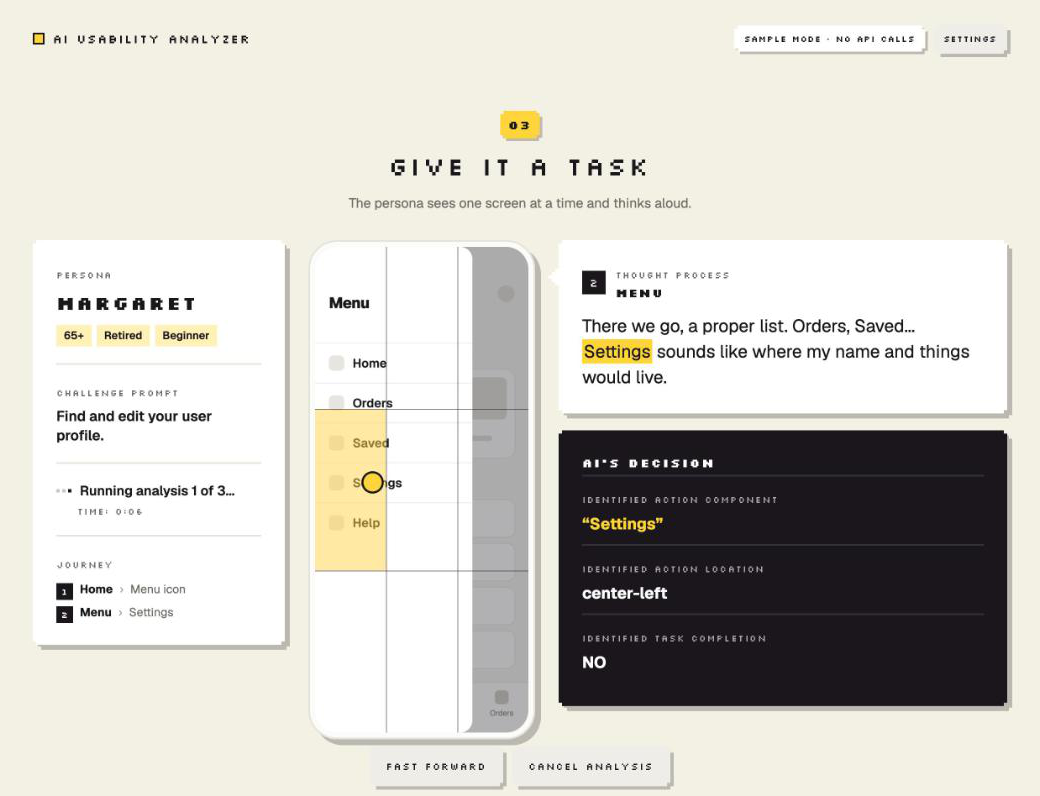
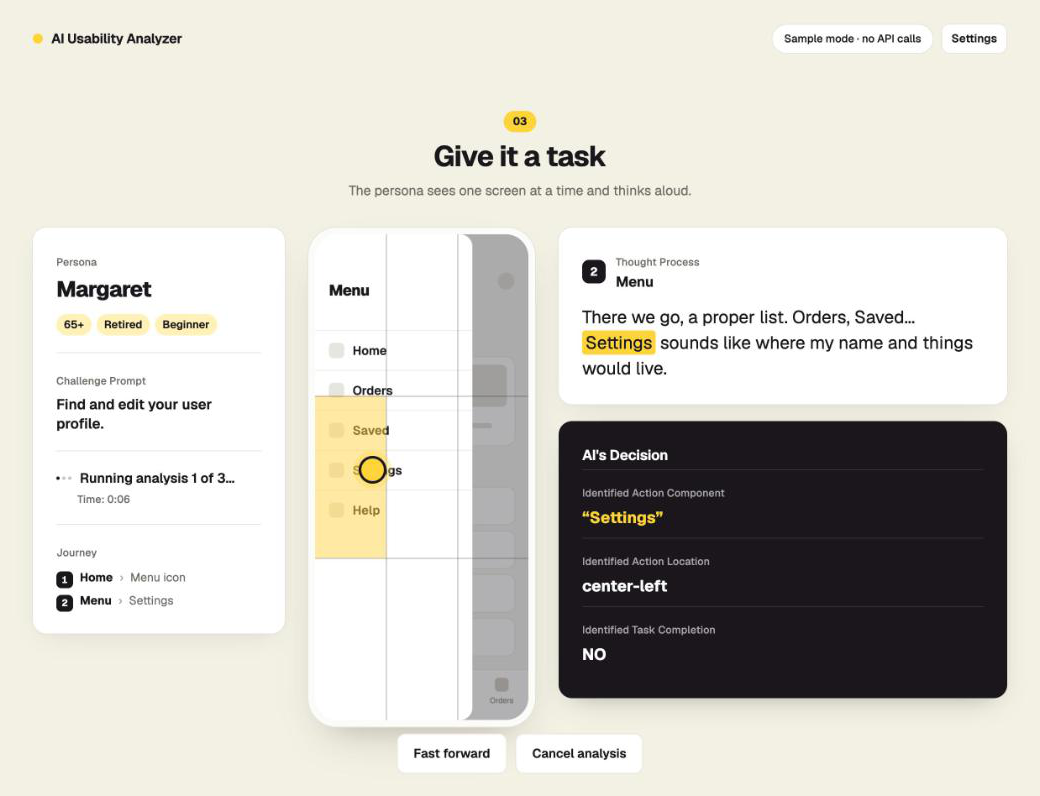
Restyle the interface: one typeface, rounded cards and soft shadows in place of the pixel look

diff --git a/src/index.css b/src/index.css
@@ -1,5 +1,6 @@
-/* Ink and one marker yellow on warm paper. Yellow means "chosen" or "the
-   answer"; a button is ink. Labels are a pixel face, sentences are Geist. */
+/* Ink and one yellow on warm paper, set in one typeface. Yellow means
+   "chosen" or "the answer"; a button is ink. Surfaces are white cards with a
+   hairline edge and a soft shadow. */
 :root {
   --ink: #19171c;
   --muted: #6f6c66;
@@ -13,9 +14,9 @@
   --ground: #f4f0e4;
   --danger: #b3261e;
   --shadow: rgba(25, 23, 28, 0.26);
-  --px: 4px;
+  --radius: 16px;
+  --radius-s: 10px;
   --font: 'Geist Variable', system-ui, -apple-system, 'Segoe UI', sans-serif;
-  --pixel: 'Silkscreen', ui-monospace, monospace;
   --ease: cubic-bezier(0.16, 1, 0.3, 1);
 }
 
@@ -40,38 +41,33 @@ h1, h2, h3, p { margin: 0; }
 
 .page { max-width: 1240px; margin: 0 auto; padding: 0 clamp(16px, 3vw, 40px) 96px; }
 
-/* The pixel plate: a square with one pixel notched from each corner, over a
-   hard offset shadow of the same shape. The face and the shadow are
-   pseudo-elements so the content itself is never clipped. */
-.plate { position: relative; isolation: isolate; --face: var(--plate); --cast: 6px; }
-.plate::before, .plate::after {
-  content: ''; position: absolute; inset: 0; z-index: -1;
-  clip-path: polygon(var(--px) 0, calc(100% - var(--px)) 0, calc(100% - var(--px)) var(--px), 100% var(--px), 100% calc(100% - var(--px)), calc(100% - var(--px)) calc(100% - var(--px)), calc(100% - var(--px)) 100%, var(--px) 100%, var(--px) calc(100% - var(--px)), 0 calc(100% - var(--px)), 0 var(--px), var(--px) var(--px));
+/* The card: every surface in the tool. `--face` is its colour. */
+.plate {
+  --face: var(--plate);
+  background: var(--face);
+  border-radius: var(--radius);
+  box-shadow: 0 0 0 1px var(--rule), 0 1px 2px rgba(25, 23, 28, 0.04), 0 12px 32px -16px rgba(25, 23, 28, 0.16);
 }
-.plate::before { background: var(--face); }
-.plate::after { background: var(--shadow); translate: var(--cast) var(--cast); z-index: -2; }
-.plate.ink { --face: var(--ink); color: #fff; }
+.plate.ink { --face: var(--ink); color: #fff; box-shadow: 0 12px 32px -16px rgba(25, 23, 28, 0.4); }
 .plate.mark { --face: var(--mark); }
-.plate.flat { --cast: 0px; }
-.plate.flat::after { display: none; }
+.plate.flat { box-shadow: none; }
 .pad { padding: 28px; }
 
-.label { font-family: var(--pixel); font-size: 11px; letter-spacing: 0.12em; text-transform: uppercase; color: var(--muted); -webkit-font-smoothing: none; }
+.label { font-size: 11px; color: var(--muted); }
 .on-ink .label { color: var(--on-ink); }
-.pixel { font-family: var(--pixel); text-transform: uppercase; letter-spacing: 0.06em; -webkit-font-smoothing: none; }
 .muted { color: var(--muted); }
 .rule { height: 2px; background: var(--rule); border: 0; margin: 20px 0; }
 
 /* Buttons */
 .btn {
-  --face: var(--ink); --cast: 4px;
-  border: 0; background: none; color: #fff; padding: 14px 20px; min-height: 48px;
-  font-family: var(--pixel); font-size: 12px; letter-spacing: 0.12em; text-transform: uppercase; -webkit-font-smoothing: none;
+  --face: var(--ink);
+  border: 0; background: var(--face); color: #fff; border-radius: var(--radius-s); box-shadow: none; padding: 14px 20px; min-height: 48px;
+  font-size: 12px;
   display: inline-flex; align-items: center; justify-content: center; gap: 10px;
-  transition: translate 120ms var(--ease);
 }
-.btn:not(:disabled):hover { translate: -1px -1px; }
-.btn:not(:disabled):active { translate: 3px 3px; --cast: 1px; }
+.btn { transition: opacity 120ms, scale 120ms var(--ease); }
+.btn:not(:disabled):hover { opacity: 0.86; }
+.btn:not(:disabled):active { scale: 0.98; }
 .btn:disabled { --face: #bdbab2; }
 .btn.ghost { --face: var(--chip); color: var(--ink); }
 .btn.ghost:disabled { color: var(--faint); --face: var(--chip); }
@@ -81,15 +77,14 @@ h1, h2, h3, p { margin: 0; }
 
 /* Choices: chips that turn yellow when picked */
 .choice {
-  --face: var(--chip); --cast: 0px;
-  border: 0; background: none; padding: 7px 12px; min-height: 34px; font-size: 14px; font-weight: 500; color: var(--ink);
+  --face: var(--chip);
+  border: 0; background: var(--face); box-shadow: none; padding: 7px 12px; min-height: 34px; font-size: 14px; font-weight: 500; color: var(--ink);
 }
-.choice::after { display: none; }
 .choice[aria-pressed='true'], .choice[aria-checked='true'] { --face: var(--mark); font-weight: 600; }
 .choice:disabled { color: var(--faint); }
 .choices { display: flex; flex-wrap: wrap; gap: 6px; }
 .tag { display: inline-block; background: var(--wash); padding: 3px 9px; font-size: 13px; font-weight: 600; }
-.tag.gap { background: var(--mark); font-family: var(--pixel); font-size: 9px; letter-spacing: 0.1em; text-transform: uppercase; padding: 3px 6px; }
+.tag.gap { background: var(--mark); font-size: 9px; padding: 3px 6px; }
 
 /* Fields */
 .field {
@@ -100,10 +95,10 @@ textarea.field { resize: vertical; min-height: 76px; line-height: 1.4; }
 
 /* Top bar */
 .topbar { display: flex; align-items: center; justify-content: space-between; gap: 16px; padding: 28px 0; flex-wrap: wrap; }
-.wordmark { display: flex; align-items: center; gap: 10px; font-family: var(--pixel); font-size: 14px; letter-spacing: 0.14em; text-transform: uppercase; -webkit-font-smoothing: none; }
+.wordmark { display: flex; align-items: center; gap: 10px; font-size: 14px; }
 .wordmark::before { content: ''; width: 14px; height: 14px; background: var(--mark); box-shadow: inset 0 0 0 2px var(--ink); }
 .topbar-right { display: flex; align-items: center; gap: 10px; flex-wrap: wrap; }
-.engine { --cast: 3px; display: inline-flex; align-items: center; gap: 8px; padding: 8px 12px; font-family: var(--pixel); font-size: 10px; letter-spacing: 0.12em; text-transform: uppercase; color: var(--faint); -webkit-font-smoothing: none; }
+.engine { display: inline-flex; align-items: center; gap: 8px; padding: 8px 12px; font-size: 10px; color: var(--faint); }
 .engine[data-on='true'] { color: var(--ink); }
 .engine[data-on='false'] { --face: #f8f6ef; }
 .engine svg { width: 16px; height: 16px; flex: none; }
@@ -117,14 +112,14 @@ textarea.field { resize: vertical; min-height: 76px; line-height: 1.4; }
 
 /* Hero */
 .hero { padding: 40px 0 56px; text-align: center; }
-.hero h1 { font-family: var(--pixel); font-weight: 400; font-size: clamp(28px, 6vw, 64px); letter-spacing: 0.08em; text-transform: uppercase; line-height: 1.1; -webkit-font-smoothing: none; }
+.hero h1 { font-weight: 400; font-size: clamp(28px, 6vw, 64px); line-height: 1.1; }
 .hero p { margin-top: 14px; font-size: clamp(16px, 2vw, 20px); color: var(--muted); }
 
 /* Chapters */
 .chapter { padding: 40px 0; }
 .chapter-head { display: grid; justify-items: center; text-align: center; gap: 10px; margin-bottom: 32px; }
-.chapter-no { --face: var(--mark); --cast: 3px; padding: 6px 10px; font-family: var(--pixel); font-weight: 700; font-size: 14px; letter-spacing: 0.1em; -webkit-font-smoothing: none; }
-.chapter-head h2 { font-family: var(--pixel); font-weight: 400; font-size: clamp(20px, 3vw, 30px); letter-spacing: 0.12em; text-transform: uppercase; -webkit-font-smoothing: none; }
+.chapter-no { --face: var(--mark); padding: 6px 10px; font-weight: 700; font-size: 14px; }
+.chapter-head h2 { font-weight: 400; font-size: clamp(20px, 3vw, 30px); }
 .chapter-head p { color: var(--muted); max-width: 52ch; }
 
 .notice { display: flex; gap: 12px; align-items: flex-start; padding: 14px 16px; background: var(--wash); font-size: 15px; }
@@ -143,19 +138,17 @@ textarea.field { resize: vertical; min-height: 76px; line-height: 1.4; }
 .frame-wire { align-self: center; flex: none; color: var(--ink); margin: 0 -14px; }
 .flows { max-width: 760px; margin: 28px auto 0; }
 .flows .choices { margin-top: 12px; }
-.flows .choice { padding: 12px 18px; min-height: 46px; font-family: var(--pixel); font-size: 11px; letter-spacing: 0.12em; text-transform: uppercase; -webkit-font-smoothing: none; }
+.flows .choice { padding: 12px 18px; min-height: 46px; font-size: 11px; }
 
 /* 02 Cast */
 .cast { display: grid; grid-template-columns: minmax(0, 1.25fr) minmax(0, 1fr); gap: 24px; align-items: stretch; }
 .tabs { display: flex; gap: 6px; margin-bottom: 22px; flex-wrap: wrap; }
-.tab { --face: var(--chip); --cast: 0px; border: 0; background: none; padding: 9px 12px; font-family: var(--pixel); font-size: 10px; letter-spacing: 0.12em; text-transform: uppercase; color: var(--muted); -webkit-font-smoothing: none; }
-.tab::after { display: none; }
+.tab { --face: var(--chip); border: 0; background: var(--face); box-shadow: none; padding: 9px 12px; font-size: 10px; color: var(--muted); }
 .tab[aria-selected='true'] { --face: var(--ink); color: #fff; }
 .presets { display: grid; grid-template-columns: repeat(3, minmax(0, 1fr)); gap: 10px; }
-.preset { --face: var(--chip); --cast: 0px; border: 0; background: none; text-align: left; padding: 16px; display: grid; gap: 4px; }
-.preset::after { display: none; }
+.preset { --face: var(--chip); border: 0; background: var(--face); box-shadow: none; text-align: left; padding: 16px; display: grid; gap: 4px; }
 .preset[aria-checked='true'] { --face: var(--mark); }
-.preset b { font-family: var(--pixel); font-size: 14px; letter-spacing: 0.1em; text-transform: uppercase; -webkit-font-smoothing: none; }
+.preset b { font-size: 14px; }
 .preset span { font-size: 13px; color: var(--muted); }
 .preset[aria-checked='true'] span { color: var(--ink); }
 .param { display: grid; grid-template-columns: 150px minmax(0, 1fr); gap: 12px; align-items: center; padding: 10px 0; border-top: 2px solid var(--rule); }
@@ -171,12 +164,11 @@ textarea.field { resize: vertical; min-height: 76px; line-height: 1.4; }
 .task { max-width: 760px; margin: 0 auto; display: grid; gap: 22px; }
 .runs-row { display: flex; align-items: center; justify-content: space-between; gap: 16px; flex-wrap: wrap; }
 .stepper { display: inline-flex; align-items: center; gap: 6px; }
-.stepper output { --face: var(--mark); --cast: 0px; min-width: 44px; text-align: center; padding: 8px 10px; font-family: var(--pixel); font-weight: 700; -webkit-font-smoothing: none; }
-.stepper output::after { display: none; }
+.stepper output { --face: var(--mark); min-width: 44px; text-align: center; padding: 8px 10px; font-weight: 700; }
 
 /* The run */
 .run { display: grid; grid-template-columns: minmax(0, 300px) auto minmax(0, 1fr); gap: 28px; align-items: start; }
-.sheet h3 { font-family: var(--pixel); font-weight: 700; font-size: 22px; letter-spacing: 0.1em; text-transform: uppercase; margin: 6px 0 10px; -webkit-font-smoothing: none; overflow-wrap: anywhere; }
+.sheet h3 { font-weight: 700; font-size: 22px; margin: 6px 0 10px; overflow-wrap: anywhere; }
 .sheet .tags { display: flex; flex-wrap: wrap; gap: 6px; }
 .sheet .challenge { font-size: 17px; font-weight: 600; line-height: 1.35; margin-top: 6px; }
 .status { display: flex; align-items: center; gap: 10px; font-weight: 600; }
@@ -184,7 +176,7 @@ textarea.field { resize: vertical; min-height: 76px; line-height: 1.4; }
 .clock { margin: 4px 0 0 25px; }
 .journey { list-style: none; margin: 8px 0 0; padding: 0; display: grid; gap: 6px; font-size: 14px; }
 .journey li { display: flex; align-items: baseline; gap: 8px; flex-wrap: wrap; }
-.badge { flex: none; width: 20px; height: 20px; display: inline-grid; place-items: center; background: var(--ink); color: #fff; font-family: var(--pixel); font-size: 10px; -webkit-font-smoothing: none; translate: 0 2px; }
+.badge { flex: none; width: 20px; height: 20px; display: inline-grid; place-items: center; background: var(--ink); color: #fff; font-size: 10px; translate: 0 2px; }
 .badge.done { background: var(--mark); color: var(--ink); font-family: var(--font); font-size: 13px; font-weight: 800; }
 .journey .arrow { color: var(--faint); }
 .journey .act { color: var(--muted); }
@@ -204,31 +196,29 @@ textarea.field { resize: vertical; min-height: 76px; line-height: 1.4; }
 @keyframes fade { from { opacity: 0; translate: 0 6px; } }
 
 .talk { display: grid; gap: 20px; min-width: 0; }
-.bubble { min-height: 190px; }
-.bubble::before { clip-path: polygon(var(--px) 0, calc(100% - var(--px)) 0, calc(100% - var(--px)) var(--px), 100% var(--px), 100% calc(100% - var(--px)), calc(100% - var(--px)) calc(100% - var(--px)), calc(100% - var(--px)) 100%, var(--px) 100%, var(--px) calc(100% - var(--px)), 0 calc(100% - var(--px)), 0 var(--px), var(--px) var(--px)); }
-.bubble-tail { position: absolute; left: -12px; top: 34px; width: 12px; height: 20px; background: var(--plate); clip-path: polygon(100% 0, 100% 100%, 66% 100%, 66% 80%, 33% 80%, 33% 60%, 0 60%, 0 40%, 33% 40%, 33% 20%, 66% 20%, 66% 0); }
+.bubble { position: relative; min-height: 190px; }
+.bubble-tail { position: absolute; left: -7px; top: 36px; width: 16px; height: 16px; background: var(--plate); rotate: 45deg; border-radius: 3px; box-shadow: -1px 1px 0 var(--rule); }
 .bubble-head { display: flex; align-items: center; gap: 12px; margin-bottom: 14px; }
 .bubble-head .badge { width: 28px; height: 28px; font-size: 13px; translate: none; }
-.bubble-head b { display: block; font-family: var(--pixel); font-size: 14px; letter-spacing: 0.12em; text-transform: uppercase; -webkit-font-smoothing: none; }
+.bubble-head b { display: block; font-size: 14px; }
 .thought { font-size: clamp(17px, 1.6vw, 21px); line-height: 1.45; white-space: pre-wrap; }
 .thought mark { background: var(--mark); color: inherit; padding: 1px 2px; }
 .caret { display: inline-block; width: 0.5em; height: 1em; background: var(--ink); translate: 0 0.15em; margin-left: 2px; animation: blink 1s steps(1) infinite; }
 @keyframes blink { 50% { opacity: 0; } }
 .decision-head { display: flex; align-items: center; justify-content: space-between; margin-bottom: 4px; }
-.decision-head b { font-family: var(--pixel); font-size: 14px; letter-spacing: 0.14em; text-transform: uppercase; -webkit-font-smoothing: none; }
+.decision-head b { font-size: 14px; }
 .decision-head svg { width: 20px; height: 20px; }
 .decision-row { border-top: 2px solid #34313a; padding: 14px 0 10px; min-height: 72px; }
 .decision-row p { font-size: 19px; font-weight: 700; margin-top: 4px; }
 .decision-row p.key { color: var(--mark); }
 .gap-flag { --face: var(--mark); padding: 14px 16px; font-size: 15px; font-weight: 600; line-height: 1.35; }
 .gap-flag .label { color: var(--ink); display: block; margin-bottom: 4px; }
-.run-foot { margin-top: 28px; display: flex; justify-content: center; }
+.run-foot { margin-top: 40px; display: flex; justify-content: center; }
 
 /* 04 Results */
 .results { display: grid; gap: 24px; }
 .band { display: grid; grid-template-columns: minmax(0, 1.5fr) repeat(3, minmax(0, 1fr)); gap: 10px; margin-top: 16px; }
-.score { --face: var(--mark); --cast: 0px; padding: 18px 20px; display: grid; gap: 4px; }
-.score::after { display: none; }
+.score { --face: var(--mark); padding: 18px 20px; display: grid; gap: 4px; }
 .score .label { color: var(--ink); display: flex; justify-content: space-between; gap: 8px; align-items: center; }
 .score .grade { background: var(--ink); color: #fff; padding: 3px 7px; }
 .score strong { font-size: clamp(48px, 7vw, 84px); font-weight: 800; letter-spacing: -0.04em; line-height: 1; }
@@ -238,7 +228,7 @@ textarea.field { resize: vertical; min-height: 76px; line-height: 1.4; }
 .tile small { display: block; font-size: 13px; font-weight: 500; color: var(--muted); letter-spacing: 0; margin-top: 2px; }
 .sus-rows { margin: 10px 0 0; padding: 0; list-style: none; }
 .sus-rows li { display: grid; grid-template-columns: 24px minmax(0, 1fr) auto 18px; gap: 12px; align-items: center; padding: 9px 0; border-top: 2px solid var(--rule); font-size: 14.5px; }
-.sus-rows .n { color: var(--faint); font-family: var(--pixel); font-size: 10px; -webkit-font-smoothing: none; }
+.sus-rows .n { color: var(--faint); font-size: 10px; }
 .meter { display: inline-flex; gap: 3px; }
 .meter i { width: 12px; height: 8px; background: var(--rule); }
 .meter i.on { background: var(--ink); }
@@ -247,11 +237,10 @@ textarea.field { resize: vertical; min-height: 76px; line-height: 1.4; }
 .gaps li { background: var(--wash); padding: 12px 14px; display: flex; gap: 10px; align-items: baseline; }
 .gaps .tag { flex: none; }
 .runs-table { display: grid; gap: 8px; margin-top: 12px; }
-.runrow { --face: var(--chip); --cast: 0px; border: 0; background: none; text-align: left; width: 100%; padding: 14px 16px; display: grid; grid-template-columns: 70px minmax(0, 1.4fr) 1fr 1fr auto; gap: 12px; align-items: center; font-size: 15px; }
-.runrow::after { display: none; }
+.runrow { --face: var(--chip); border: 0; background: var(--face); box-shadow: none; text-align: left; width: 100%; padding: 14px 16px; display: grid; grid-template-columns: 70px minmax(0, 1.4fr) 1fr 1fr auto; gap: 12px; align-items: center; font-size: 15px; }
 .runrow[aria-pressed='true'] { box-shadow: inset 0 0 0 2px var(--ink); }
 .runrow .quote { grid-column: 1 / -1; font-size: 14px; color: var(--muted); }
-.pill { font-family: var(--pixel); font-size: 10px; letter-spacing: 0.1em; text-transform: uppercase; padding: 5px 8px; background: var(--mark); -webkit-font-smoothing: none; white-space: nowrap; }
+.pill { font-size: 10px; padding: 5px 8px; background: var(--mark); white-space: nowrap; }
 .pill.none { background: var(--plate); color: var(--muted); }
 .columns { display: grid; grid-template-columns: repeat(3, minmax(0, 1fr)); gap: 24px; }
 .prose { font-size: 15px; line-height: 1.55; }
@@ -272,12 +261,77 @@ textarea.field { resize: vertical; min-height: 76px; line-height: 1.4; }
 /* Settings */
 .scrim { position: fixed; inset: 0; background: rgba(25, 23, 28, 0.5); display: grid; place-items: center; padding: 16px; z-index: 10; overflow: auto; }
 .dialog { width: min(560px, 100%); display: grid; gap: 18px; }
-.dialog h2 { font-family: var(--pixel); font-weight: 400; font-size: 18px; letter-spacing: 0.12em; text-transform: uppercase; -webkit-font-smoothing: none; }
+.dialog h2 { font-weight: 400; font-size: 18px; }
 .dialog label { display: grid; gap: 6px; }
 .dialog .help { font-size: 13px; color: var(--muted); }
 .dialog .row { display: flex; gap: 10px; justify-content: flex-end; flex-wrap: wrap; }
 
 .foot { margin-top: 64px; padding-top: 24px; border-top: 2px solid var(--rule); color: var(--muted); font-size: 14px; display: flex; gap: 8px 24px; flex-wrap: wrap; justify-content: space-between; }
+
+/* Type and shape. One family throughout: labels are small and quiet,
+   headings are tight and heavy, controls are rounded. */
+.label { font-size: 12.5px; font-weight: 500; letter-spacing: 0.01em; }
+.pixel { font-weight: 650; letter-spacing: -0.01em; font-size: 17px !important; }
+.rule { height: 1px; }
+.btn { font-size: 15px; font-weight: 600; padding: 12px 20px; }
+.btn.small { font-size: 13.5px; padding: 7px 12px; }
+.btn.ghost { box-shadow: inset 0 0 0 1px var(--rule); --face: #fff; }
+.btn.ghost:disabled { --face: #fff; }
+.choice, .tab, .preset, .runrow { border-radius: var(--radius-s); }
+.choice { border-radius: 999px; padding: 6px 14px; }
+.tag { border-radius: 999px; }
+.tag.gap { font-size: 11.5px; font-weight: 700; padding: 2px 9px; letter-spacing: 0.02em; }
+.field { border-radius: var(--radius-s); box-shadow: inset 0 0 0 1px var(--rule); background: #fbfaf6; }
+.field:focus-visible { outline: 2px solid var(--ink); outline-offset: 0; }
+:focus-visible { outline-width: 2px; outline-offset: 2px; border-radius: 6px; }
+
+.wordmark { font-size: 16px; font-weight: 650; letter-spacing: -0.01em; }
+.wordmark::before { width: 12px; height: 12px; border-radius: 50%; box-shadow: none; }
+.engine { font-size: 13px; font-weight: 500; border-radius: 999px; padding: 7px 14px; box-shadow: 0 0 0 1px var(--rule); }
+.engine[data-on='false'] { --face: transparent; }
+.dots i { border-radius: 50%; }
+[data-busy='true'] .dots i { animation-timing-function: ease-in-out; }
+
+.hero h1 { font-weight: 750; font-size: clamp(34px, 6vw, 68px); letter-spacing: -0.035em; line-height: 1.02; }
+.chapter-no { border-radius: 999px; padding: 3px 11px; font-size: 13px; font-weight: 700; box-shadow: none; font-variant-numeric: tabular-nums; }
+.chapter-head h2 { font-weight: 700; font-size: clamp(24px, 3vw, 34px); letter-spacing: -0.025em; line-height: 1.1; }
+.notice, .gaps li, .tile, .score, .gap-flag, .error { border-radius: var(--radius-s); }
+.notice::before { border-radius: 50%; box-shadow: none; width: 8px; height: 8px; margin-top: 8px; }
+.score, .gap-flag { box-shadow: none; }
+
+.frame-shot { box-shadow: 0 0 0 1px var(--rule), 0 10px 24px -14px rgba(25, 23, 28, 0.25); }
+.frame figcaption, .frame .label { font-size: 12.5px; }
+.flows .choice { font-size: 15px; font-weight: 600; padding: 10px 18px; }
+.tab { font-size: 14px; font-weight: 600; padding: 8px 14px; border-radius: 999px; }
+.preset b { font-size: 17px; font-weight: 650; }
+.persona-text li::before { border-radius: 50%; box-shadow: none; width: 7px; height: 7px; top: 0.6em; }
+.stepper output { border-radius: var(--radius-s); font-weight: 700; font-variant-numeric: tabular-nums; }
+
+.sheet h3 { font-size: 26px; font-weight: 750; letter-spacing: -0.03em; margin: 2px 0 10px; }
+.clock { font-variant-numeric: tabular-nums; }
+.badge { border-radius: 6px; font-size: 11.5px; font-weight: 700; font-variant-numeric: tabular-nums; }
+.badge.done { font-size: 12px; }
+.phone { box-shadow: 0 0 0 1px #e4e2dc, 0 24px 48px -24px rgba(25, 23, 28, 0.35); }
+.grid i { background: rgba(25, 23, 28, 0.35); }
+.tap { box-shadow: 0 0 0 3px var(--ink), 0 0 0 9px rgba(255, 212, 59, 0.35); }
+.bubble-head .badge { border-radius: 8px; font-size: 14px; }
+.bubble-head b { font-size: 17px; font-weight: 650; letter-spacing: -0.01em; }
+.thought mark { border-radius: 4px; padding: 1px 4px; }
+.caret { width: 2px; border-radius: 1px; }
+.decision-head b { font-size: 17px; font-weight: 650; letter-spacing: -0.01em; }
+.decision-row { border-top-width: 1px; }
+.sus-rows li, .param, .stepcard { border-top-width: 1px; }
+.sus-rows .n { font-size: 12.5px; font-variant-numeric: tabular-nums; }
+.meter i { border-radius: 2px; }
+.score .grade { border-radius: 999px; padding: 2px 9px; font-size: 12px; font-weight: 600; }
+.pill { border-radius: 999px; font-size: 12.5px; font-weight: 650; padding: 4px 10px; font-variant-numeric: tabular-nums; }
+.pill.none { box-shadow: inset 0 0 0 1px var(--rule); }
+.runrow[aria-pressed='true'] { box-shadow: inset 0 0 0 2px var(--ink); }
+.stepcard .phone { box-shadow: 0 0 0 1px #e4e2dc, 0 12px 24px -16px rgba(25, 23, 28, 0.3); }
+.stepcard .tap { box-shadow: 0 0 0 2px var(--ink); }
+.dialog h2 { font-size: 22px; font-weight: 700; letter-spacing: -0.02em; }
+.foot { border-top-width: 1px; }
+
 
 @media (max-width: 980px) {
   .cast, .columns { grid-template-columns: minmax(0, 1fr); }

diff --git a/src/components/Results.tsx b/src/components/Results.tsx
@@ -37,7 +37,7 @@ export function Results(p: Props) {
         </Sheet>
 
         <div className="plate pad" style={{ minWidth: 0 }}>
-          <h3 className="pixel" style={{ fontSize: 15, letterSpacing: '0.14em' }}>Analysis Summary</h3>
+          <h3 className="pixel" style={{ fontSize: 15 }}>Analysis Summary</h3>
           <div className="band">
             <div className="plate score">
               <span className="label">
@@ -88,7 +88,7 @@ export function Results(p: Props) {
               <div className="runs-table">
                 {p.results.map((r, i) => (
                   <button key={r.index} type="button" className="plate runrow" aria-pressed={i === p.selected} onClick={() => p.onSelect(i)}>
-                    <span className="pixel" style={{ fontSize: 11 }}>Run {r.index + 1}</span>
+                    <span style={{ fontWeight: 650 }}>Run {r.index + 1}</span>
                     <b>{r.status === 'completed' ? '✓ ' : '✕ '}{STATUS[r.status]}</b>
                     <span className="muted hide-s">{r.steps.length} steps</span>
                     <span className="muted hide-s">{formatDuration(r.durationMs)}</span>
@@ -141,7 +141,7 @@ export function Results(p: Props) {
       )}
 
       <div className="plate pad">
-        <h3 className="pixel" style={{ fontSize: 15, letterSpacing: '0.14em' }}>Step by step{many ? ` · run ${run.index + 1}` : ''}</h3>
+        <h3 className="pixel" style={{ fontSize: 15 }}>Step by step{many ? ` · run ${run.index + 1}` : ''}</h3>
         <div className="steps">
           {run.steps.map((s) => (
             <article className="stepcard" key={s.number}>

diff --git a/src/components/TopBar.tsx b/src/components/TopBar.tsx
@@ -18,7 +18,7 @@ export function TopBar({ busy, sample, model, onSettings, onHome }: { busy: Engi
         ) : (
           <>
             <span className="plate engine" data-on={busy.figma} data-busy={busy.figma}><FigmaMark /><span>Figma</span><Dots /></span>
-            <span className="plate engine" data-on={busy.gemini} data-busy={busy.gemini}><GeminiMark /><span>{model.replace(/-/g, ' ')}</span><Dots /></span>
+            <span className="plate engine" data-on={busy.gemini} data-busy={busy.gemini}><GeminiMark /><span>{model.replace(/-/g, ' ').replace(/\b[a-z]/g, (c) => c.toUpperCase())}</span><Dots /></span>
           </>
         )}
         <Button variant="ghost" size="small" onClick={onSettings}>Settings</Button>

diff --git a/src/main.tsx b/src/main.tsx
@@ -1,6 +1,4 @@
 import '@fontsource-variable/geist';
-import '@fontsource/silkscreen/400.css';
-import '@fontsource/silkscreen/700.css';
 import './index.css';
 import { StrictMode } from 'react';
 import { createRoot } from 'react-dom/client';
